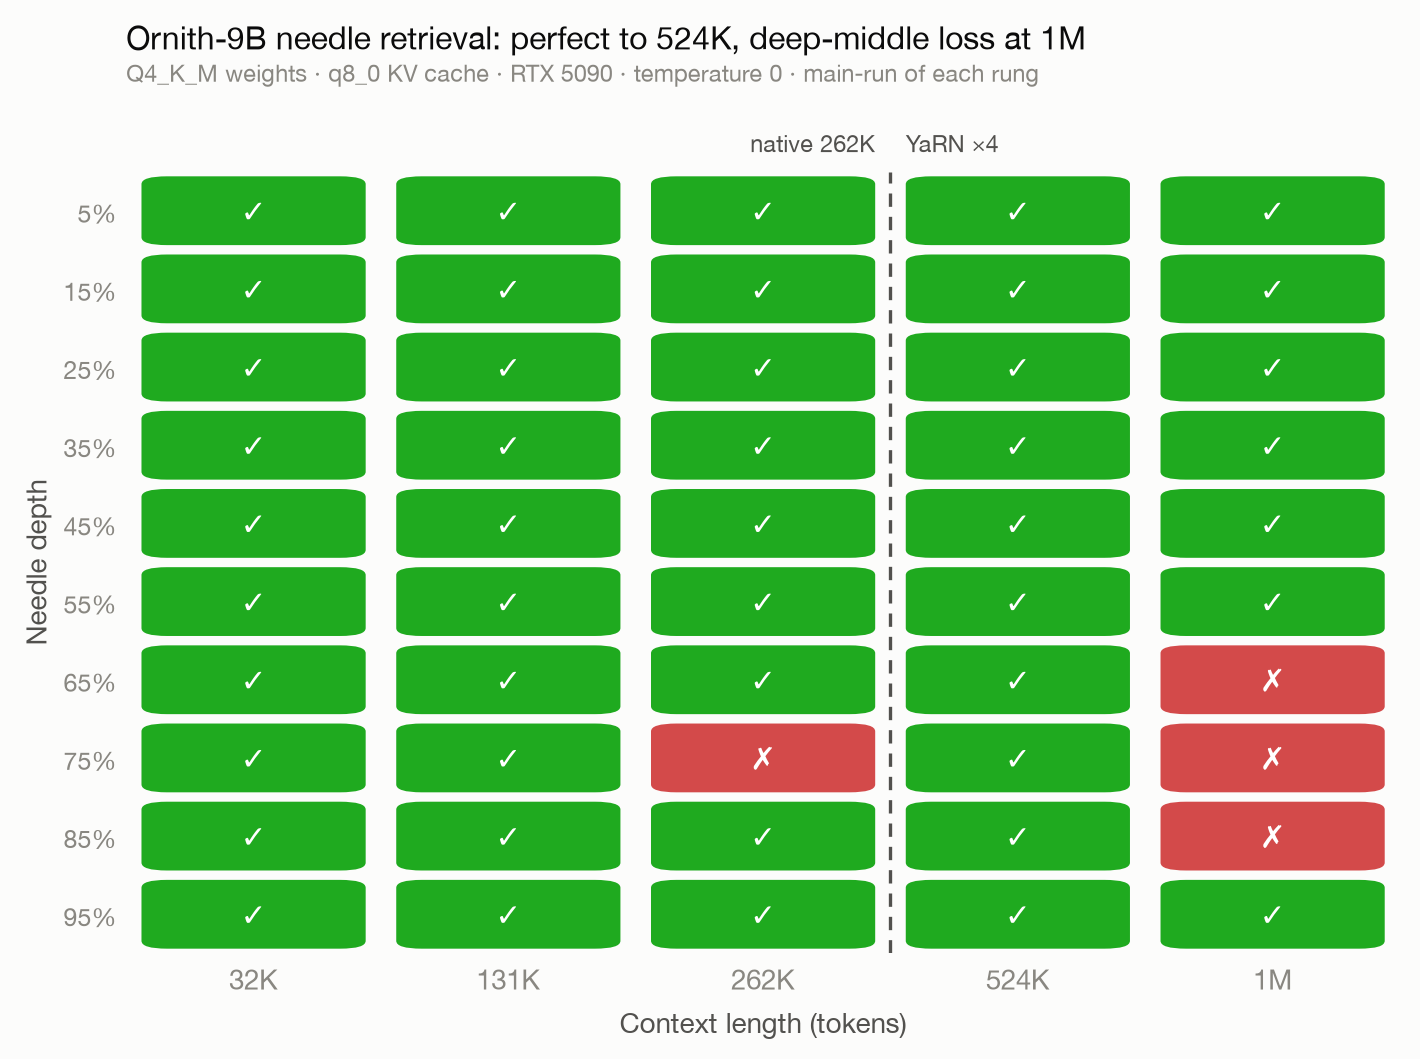
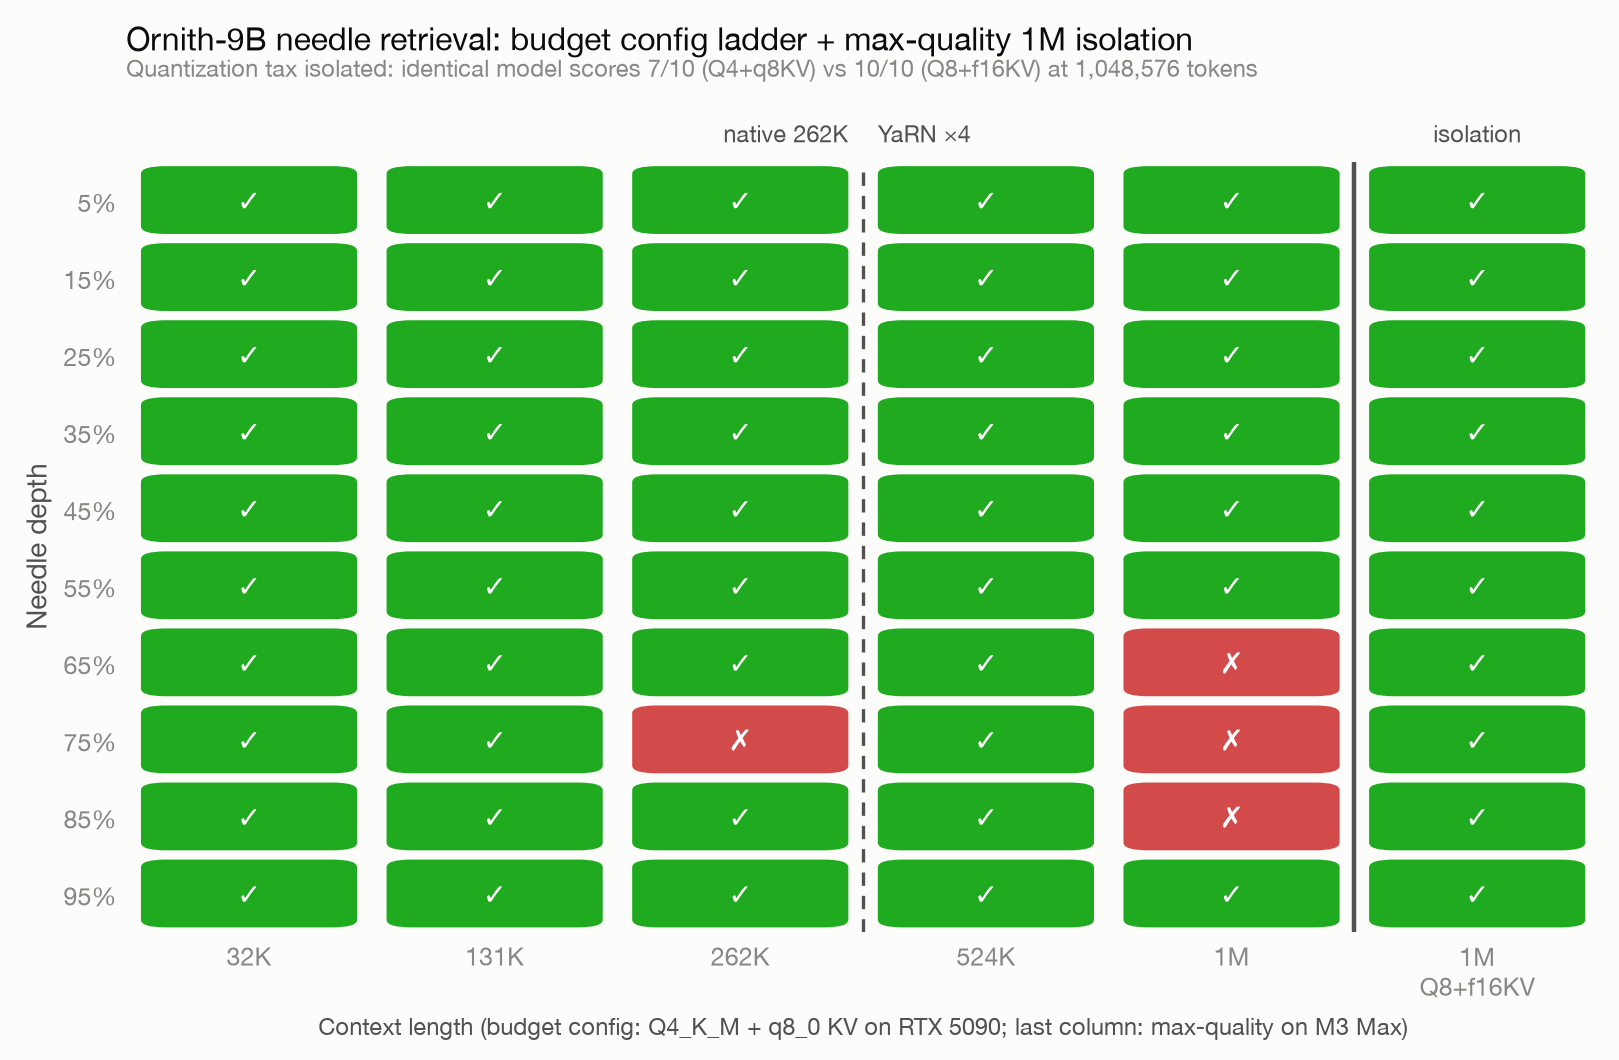
9B heatmap: single combined image with 1M isolation column

diff --git a/make_charts_9b_v2.py b/make_charts_9b_v2.py
@@ -1,0 +1,34 @@
+import json
+import matplotlib; matplotlib.use("Agg")
+import matplotlib.pyplot as plt
+from matplotlib.patches import FancyBboxPatch
+S="#fcfcfb"; INK="#0b0b0b"; I2="#52514e"; MU="#898781"; G="#0ca30c"; R="#d03b3b"
+plt.rcParams.update({"font.family":["Helvetica Neue","Arial","DejaVu Sans"],"figure.facecolor":S,"axes.facecolor":S,"savefig.facecolor":S,"text.color":INK,"xtick.color":MU,"ytick.color":MU,"axes.labelcolor":I2})
+runs=[json.loads(l) for l in open("results_9b_5090.jsonl")]
+main={r["target_tokens"]:r for r in runs[:5]}
+CTX=[32768,131072,262144,524288,1048576]
+LBL=["32K","131K","262K","524K","1M"]
+cols=[(l,{d["depth"] for d in main[c]["depths"] if not d["hit"]}) for l,c in zip(LBL,CTX)]
+cols.append(("1M\nQ8+f16KV", set()))  # Mac pure-config: 10/10
+depths=[round((i+.5)/10,2) for i in range(10)]
+fig, ax = plt.subplots(figsize=(8.2,5.4), dpi=200)
+for j,(lab,fails) in enumerate(cols):
+    for i,d in enumerate(depths):
+        ok=d not in fails
+        ax.add_patch(FancyBboxPatch((j+.06,i+.06),.88,.88,boxstyle="round,pad=0,rounding_size=.1",linewidth=0,facecolor=G if ok else R,alpha=.92))
+        ax.text(j+.5,i+.5,"✓" if ok else "✗",ha="center",va="center",fontsize=10.5,color="#fff",fontweight="bold")
+ax.set_xlim(0,6); ax.set_ylim(10,0)
+ax.set_xticks([j+.5 for j in range(6)]); ax.set_xticklabels([c[0] for c in cols],fontsize=9)
+ax.set_yticks([i+.5 for i in range(10)]); ax.set_yticklabels([f"{int(d*100)}%" for d in depths],fontsize=9)
+ax.set_xlabel("Context length (budget config: Q4_K_M + q8_0 KV on RTX 5090; last column: max-quality on M3 Max)",fontsize=8.5)
+ax.set_ylabel("Needle depth",fontsize=10)
+for s in ax.spines.values(): s.set_visible(False)
+ax.tick_params(length=0)
+ax.axvline(3,color=I2,linewidth=1.2,linestyle=(0,(4,3)))
+ax.axvline(5,color=I2,linewidth=1.6)
+ax.text(2.94,-.25,"native 262K",ha="right",fontsize=8.5,color=I2)
+ax.text(3.06,-.25,"YaRN ×4",ha="left",fontsize=8.5,color=I2)
+ax.text(5.5,-.25,"isolation",ha="center",fontsize=8.5,color=I2)
+ax.set_title("Ornith-9B needle retrieval: budget config ladder + max-quality 1M isolation",fontsize=11.5,color=INK,pad=40,loc="left")
+ax.text(0,-1.1,"Quantization tax isolated: identical model scores 7/10 (Q4+q8KV) vs 10/10 (Q8+f16KV) at 1,048,576 tokens",fontsize=8.5,color=MU)
+fig.tight_layout(); fig.savefig("niah_heatmap_9b.png",bbox_inches="tight"); print("combined chart written")